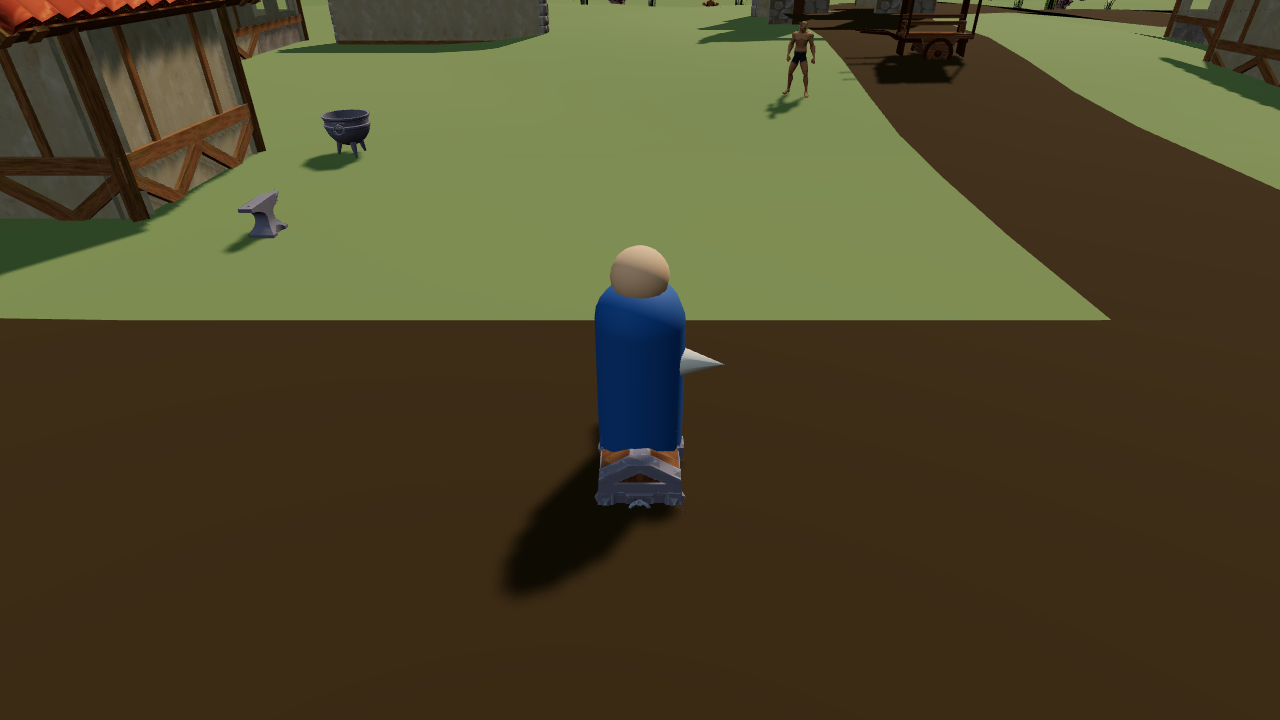
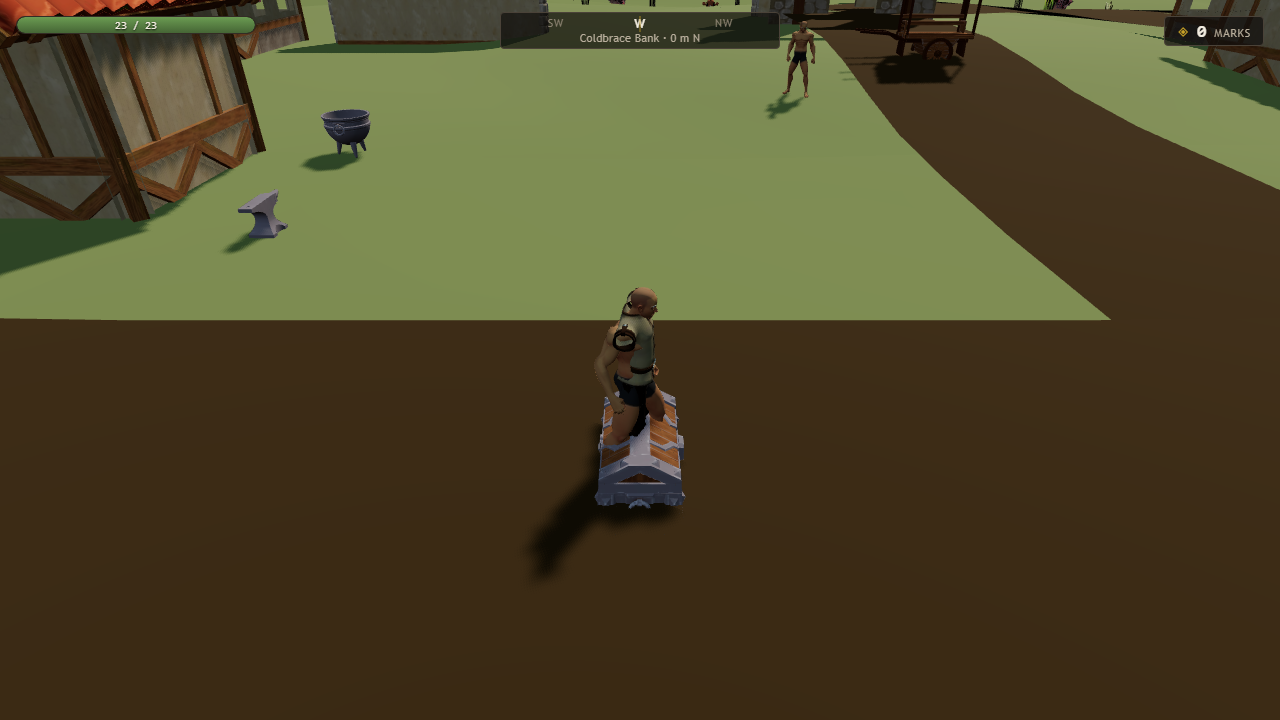
Dress the NPCs and narrow the roads
Every NPC was authored as base_male/base_female -- undressed base bodies, so
each settlement was a town of nude mannequins. The Modular Outfits pack ships
complete full-body variants on the same 65-bone skeleton, so the swap costs
nothing: rangers for the outdoor roles, peasants for townsfolk, chosen
deterministically from the id so an NPC dresses the same on every load.

Roads went 5m to 3.2m. At 5m across a dense link graph the ribbons merged into
one grey field instead of reading as tracks between places.

diff --git a/game/src/world/regionBuilder.ts b/game/src/world/regionBuilder.ts
@@ -45,6 +45,22 @@ import type { KnownLocation } from "./entities.js";
  *   8-15 at tier 1, 8-15 at tier 5, 8-14 at tier 10.
  */
 /** Every quest a given NPC hands out, derived from the quest table rather than duplicated. */
+/**
+ * Dresses an NPC.
+ *
+ * `regions.ts` authors every NPC as `base_male` / `base_female`, which are undressed base bodies —
+ * a town full of nude mannequins. The Modular Outfits pack ships complete full-body variants on the
+ * same 65-bone skeleton, so swapping the asset costs nothing and clothes everyone. Rangers for the
+ * outdoor roles, peasants for the townsfolk, chosen deterministically from the id so the same NPC
+ * is dressed the same way on every load.
+ */
+function dressedAssetFor(npcId: string, baseAssetId: string): string {
+  const female = baseAssetId.includes("female");
+  const outdoors = /ranger|trapper|woodward|watcher|quarrier|forema|pitmaster/.test(npcId);
+  const kind = outdoors ? "ranger" : "peasant";
+  return `outfit_${female ? "female" : "male"}_${kind}`;
+}
+
 function questIdsForNpc(npcId: string): string[] {
   return QUESTS.filter((quest) => quest.giverNpcId === npcId).map((quest) => quest.id);
 }
@@ -387,7 +403,7 @@ function buildRegionEntities(
         dialogueRootId: npc.dialogueRootId,
         questIds: npc.questIds.length > 0 ? npc.questIds : questIdsForNpc(npc.id),
       },
-      view: { assetId: npc.assetId, rotationY: npc.facingRad, labelHeight: 2.2 },
+      view: { assetId: dressedAssetFor(npc.id, npc.assetId), rotationY: npc.facingRad, labelHeight: 2.2 },
       meta: { settlementId: settlement.id },
     });
   }

diff --git a/game/src/app/boot.ts b/game/src/app/boot.ts
@@ -784,7 +784,7 @@ function buildRoads(scene: WorldScene): number {
         const z = from.position[1] + (to.position[1] - from.position[1]) * t;
         points.push([x, scene.heightAt(region.id, x, z), z]);
       }
-      if (scene.buildRoad(points, 5, region.id)) built += 1;
+      if (scene.buildRoad(points, 3.2, region.id)) built += 1;
     }
   }
   return built;
